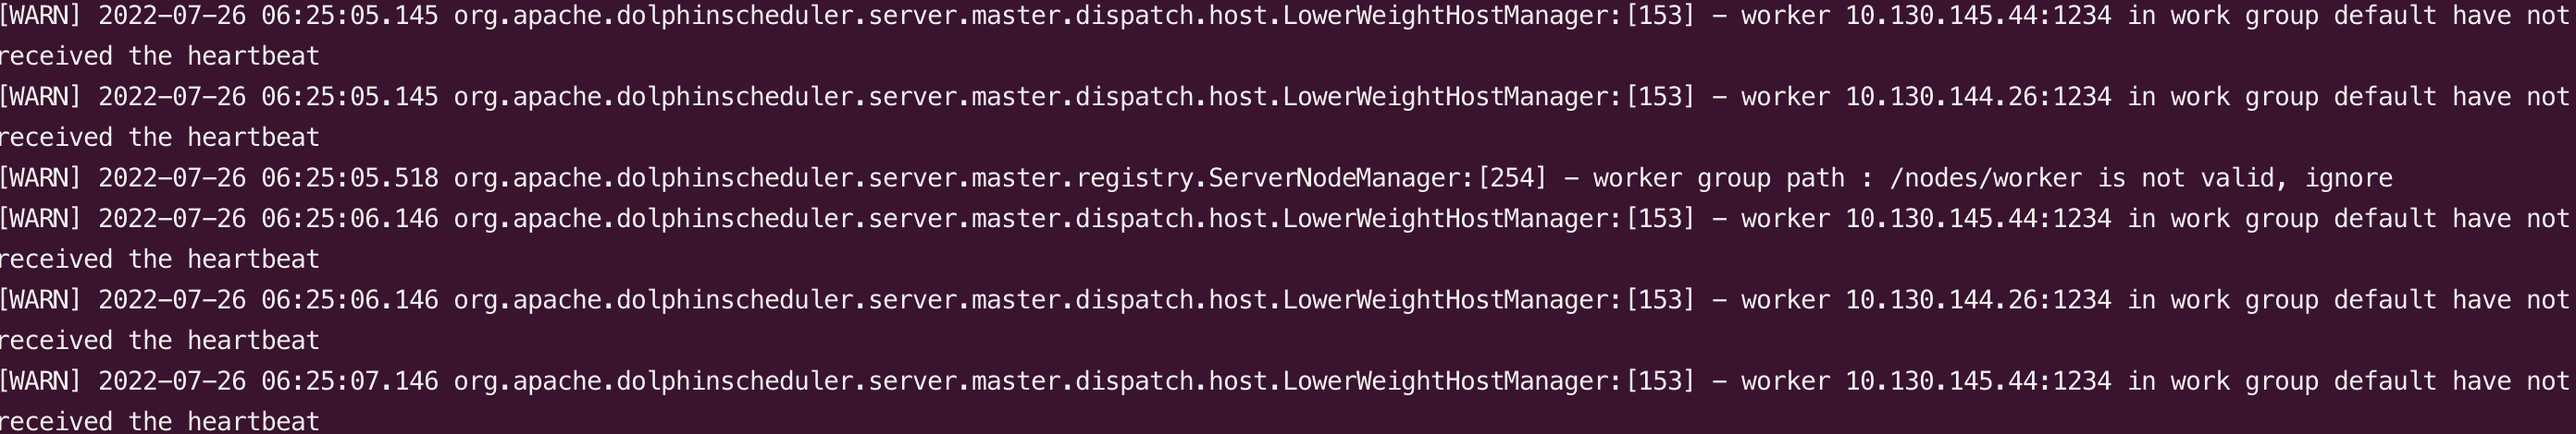
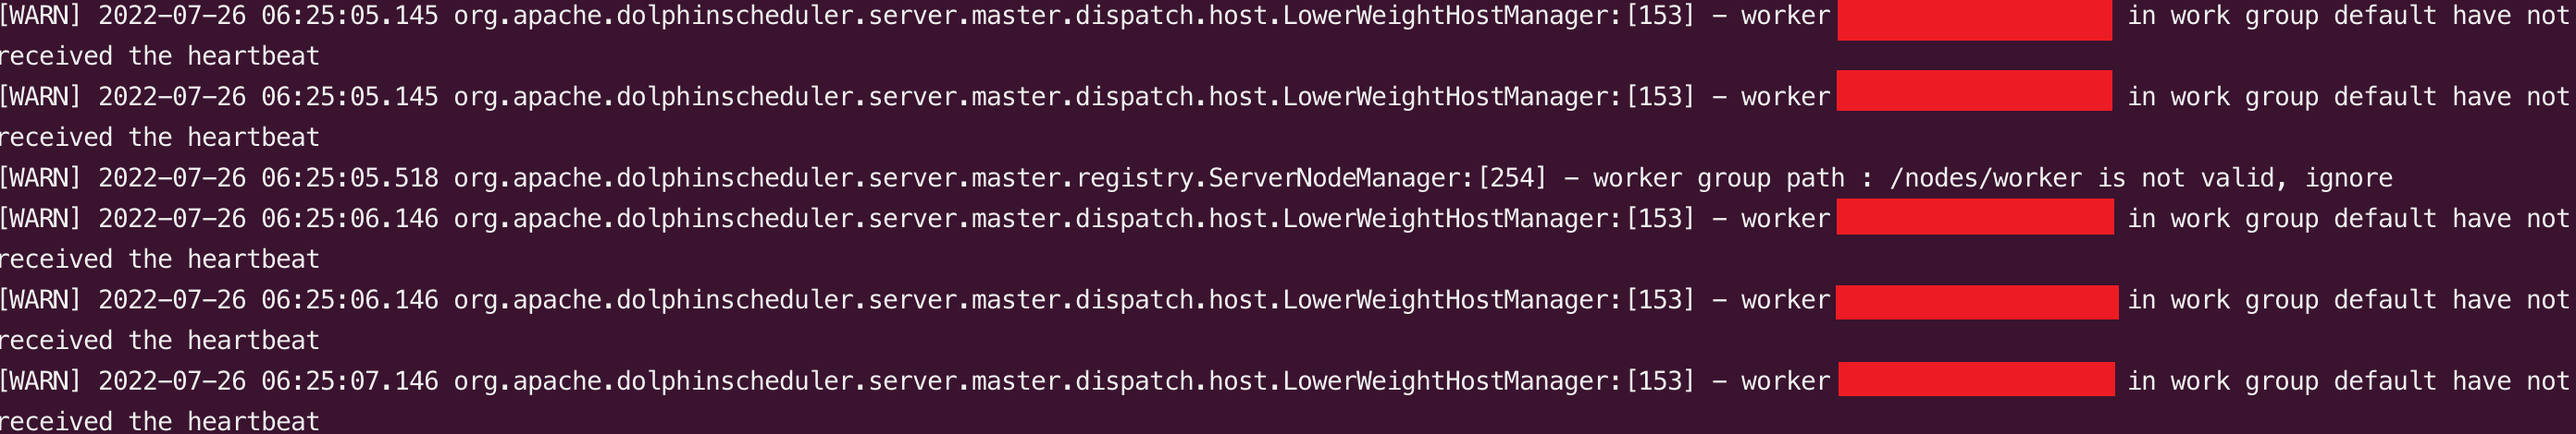
fix: hide private info

diff --git a/README.md b/README.md
@@ -20,6 +20,16 @@ ___
       - [4. dolphin scheduler project](#4-dolphin-scheduler-project)
       - [5. others](#5-others)
     - [_aso-alert_ project deployment test](#aso-alert-project-deployment-test)
+  - [Problem And Solution](#problem-and-solution)
+    - [1. Telant dosen't exist](#1-telant-dosent-exist)
+    - [2. Datasource fail to connect mysql](#2-datasource-fail-to-connect-mysql)
+      - [(Pseudo) cluster](#pseudo-cluster)
+      - [Docker，K8s](#dockerk8s)
+    - [3. Storage Not Enabled](#3-storage-not-enabled)
+      - [1. K8s:](#1-k8s)
+      - [2. Cluster](#2-cluster)
+    - [4. work group default have not received the heartbeat](#4-work-group-default-have-not-received-the-heartbeat)
+  - [Reference](#reference)
 
 
 ## Main DS Service Composition
@@ -335,4 +345,4 @@ dolphin.scheduler.network.priority.strategy=outer
 1. [Dolphinscheduler(2.0.5) docker deploy](https://dolphinscheduler.apache.org/en-us/docs/2.0.5/user_doc/guide/installation/docker.html)
 2. [ProgrammerSought: dolphinscheduler-2.0.3](https://programmersought.com/article/432910485874/)
 3. [Dolphinscheduler + Mysql搭建部署](https://www.its203.com/article/yj970605/121029526)
-4. [Dolphinscheduler 上传文件出现租户不存在的问题](https
+4. [Dolphinscheduler 上传文件出现租户不存在的问题](https://blog.csdn.net/weixin_37681466/article/details/123126799)
